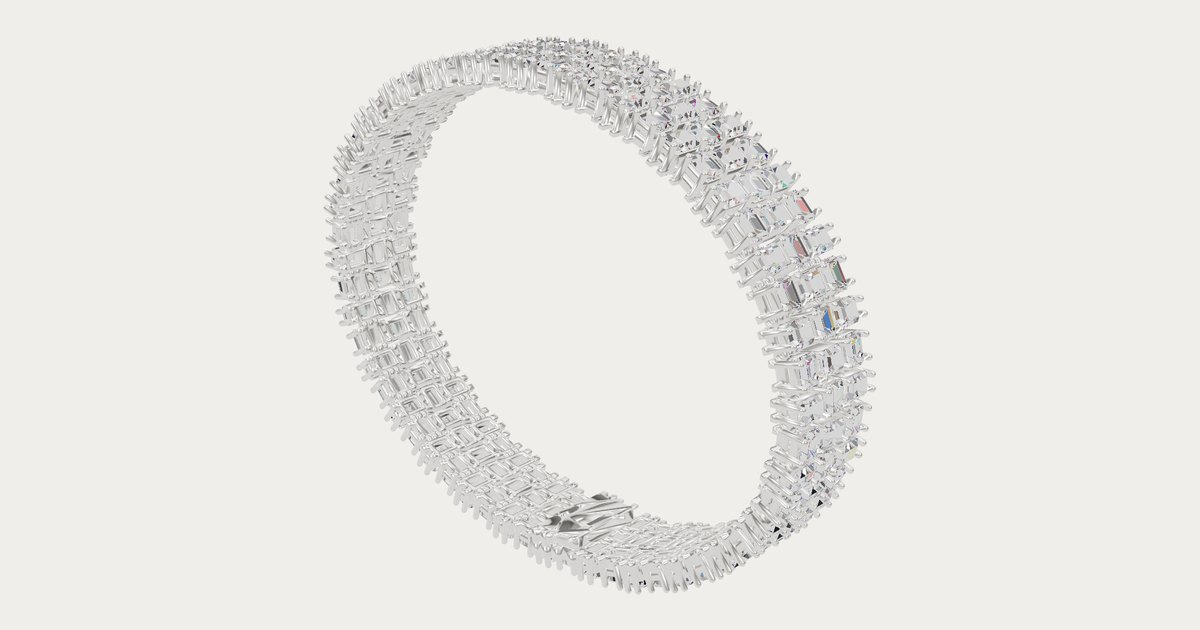
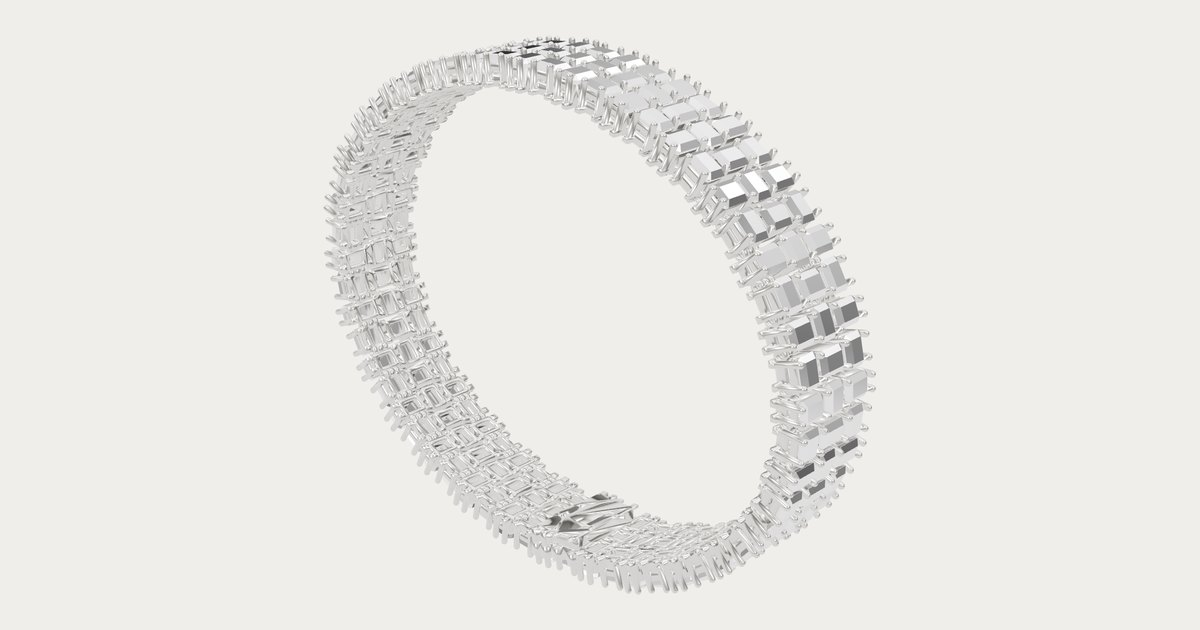
Publish baguette-tennis-v2-closed

Changed region(s): [[0.4008, 0.0603, 0.74, 0.8444]]

diff --git a/baguette-tennis-v2-closed/index.html b/baguette-tennis-v2-closed/index.html
@@ -11,7 +11,7 @@
 <meta property="og:title" content="צמיד טניס בגט · גרסה 2">
 <meta property="og:description" content="רק יהלומים ושיניים · סגור על היד">
 <meta property="og:url" content="https://israelbitton-web.github.io/jewelry-3d/baguette-tennis-v2-closed/">
-<meta property="og:image" content="https://israelbitton-web.github.io/jewelry-3d/baguette-tennis-v2-closed/preview.jpg?v=1793549765">
+<meta property="og:image" content="https://israelbitton-web.github.io/jewelry-3d/baguette-tennis-v2-closed/preview.jpg?v=1793550342">
 <meta property="og:image:width" content="1200">
 <meta property="og:image:height" content="630">
 <meta name="twitter:card" content="summary_large_image">
@@ -299,7 +299,7 @@ const CAPTURE = Q.has('capture');
 const CSIZE = +(Q.get('size') || 1080);
 if (CAPTURE) document.body.classList.add('capture');
 const CFG = await fetch('config.json', { cache: 'no-cache' }).then((r) => r.ok ? r.json() : {}).catch(() => ({}));
-const BUILD = '1793549765';
+const BUILD = '1793550342';
 if (CFG.v && BUILD !== '__BUILD__' && CFG.v !== BUILD && Q.get('r') !== CFG.v) { const u = new URL(location.href); u.searchParams.set('r', CFG.v); location.replace(u); }
 // language: every text on the page in one table; the switch (he / fr / en) rewrites all of it, details included.
 // start = ?lang=, then the visitor's last choice, then config "lang" ("auto" = the phone's language; default Hebrew)
@@ -620,7 +620,7 @@ const metalKey = Q.get('metal') || CFG.metal || 'pt';
 const metalMat = new THREE.MeshStandardMaterial({ color: METALS[metalKey] || METALS.pt, metalness: 1, roughness: 0.1, envMapIntensity: 1.2 });
 document.querySelectorAll('[data-metal]').forEach((x) => x.classList.toggle('on', x.dataset.metal === metalKey));
 const diamondMats = [];
-let radius = 1, elev = Q.has('elev') ? +Q.get('elev') : 0.55;   // ?elev= camera height (capture stills)
+let radius = 1, elev = Q.has('elev') ? +Q.get('elev') : (CFG.elev ?? 0.55);   // config "elev": start camera height   // ?elev= camera height (capture stills)
 
 const draco = new DRACOLoader().setDecoderPath('https://www.gstatic.com/draco/versioned/decoders/1.5.6/');
 const gltf = await new GLTFLoader().setDRACOLoader(draco).loadAsync((CFG.model || 'model.glb') + (CFG.v ? '?v=' + CFG.v : ''));   // v = publish stamp: phones never keep an old model
@@ -653,6 +653,16 @@ ring.updateMatrixWorld(true);
 ring.traverse((o) => {
   if (!o.isMesh) return;
   if (!o.name.startsWith('diamond')) { o.material = metalMat; return; }
+  // config "gem_style": "facet" (many small step-cut stones, bracelets): a crisp faceted mirror-crystal per facet instead
+  // of tracing one merged mesh (rays wandered from stone to stone, and the cost made phones drop the resolution)
+  if (CFG.gem_style === 'facet' && !(GEM !== 'bvh' && roundFrame(o))) {
+    o.geometry = o.geometry.toNonIndexed(); o.geometry.computeVertexNormals();
+    // mirror-crystal: every flat facet reflects a different part of the studio (light / dark steps like a step cut)
+    const m = new THREE.MeshPhysicalMaterial({ color: 0xdfe6ee, metalness: 1.0, roughness: 0.02, flatShading: true,
+      envMapIntensity: 1.25, clearcoat: 1.0, clearcoatRoughness: 0.0, iridescence: 0.35, iridescenceIOR: 1.8,
+      iridescenceThicknessRange: [180, 420] });
+    m.userData.facet = true; o.material = m; diamondMats.push(m); return;
+  }
   const F = GEM === 'bvh' ? null : roundFrame(o);
   const m = F ? analyticGem(F) : bvhGem(o.geometry);
   o.material = m; diamondMats.push(m);
@@ -684,7 +694,7 @@ const thumbGem = centre || (gemSizes.length ? gemSizes[0][1] : null);
 const targets = centre ? [centre] : gemSizes.map((g) => g[1]);
 function setStone(key) {
   const st = STONES[key]; if (!thumbGem || !st) return;
-  for (const g of targets) { g.material.uniforms.color.value.set(st.tones[TONE[key]]); g.material.uniforms.ior.value = st.ior; }
+  for (const g of targets) { if (g.material.userData.facet) { g.material.color.set(st.tones[TONE[key]]); continue; } g.material.uniforms.color.value.set(st.tones[TONE[key]]); g.material.uniforms.ior.value = st.ior; }
   document.querySelectorAll('[data-stone]').forEach((x) => x.classList.toggle('on', x.dataset.stone === key));
 }
 function openShades(btn) {
@@ -814,7 +824,7 @@ if (thumbGem) {
   if (CFG.stone_buttons !== false) document.getElementById('gems').hidden = false;
   const startKey = Q.get('stone') || CFG.center_stone;
   if (startKey) setStone(startKey);
-  else if (centre && CFG.gem_colors && CFG.gem_colors.largest) { centre.material.uniforms.color.value.set(CFG.gem_colors.largest);
+  else if (centre && CFG.gem_colors && CFG.gem_colors.largest && centre.material.uniforms) { centre.material.uniforms.color.value.set(CFG.gem_colors.largest);
     document.querySelector('[data-stone="diamond"]').classList.add('on'); }
   else setStone('diamond');
   document.querySelectorAll('[data-stone]').forEach((b) => picker(b, openShades, () => { setStone(b.dataset.stone); shadeHint(); }));
@@ -843,7 +853,7 @@ composer.addPass(new OutputPass());
 
 // compile every shader before the first frame, so the jewel appears complete instead of stalling on first draw
 await renderer.compileAsync(scene, camera);
-if (thumbGem && !CAPTURE) gemThumbs();
+if (thumbGem && !CAPTURE && thumbGem.material.uniforms) gemThumbs();
 document.getElementById('loading').remove();
 
 function onResize() {
@@ -981,7 +991,7 @@ document.querySelectorAll('.ctl button, .tools button, .views button').forEach((
 const res = new THREE.Vector2();
 function draw() {
   renderer.getDrawingBufferSize(res);
-  for (const m of diamondMats) m.uniforms.resolution.value.copy(res);
+  for (const m of diamondMats) if (m.uniforms) m.uniforms.resolution.value.copy(res);
   // without sparkle, skip the post-processing chain: two full-screen passes fewer per frame
   if (bloom.enabled) composer.render(); else renderer.render(scene, camera);
 }
